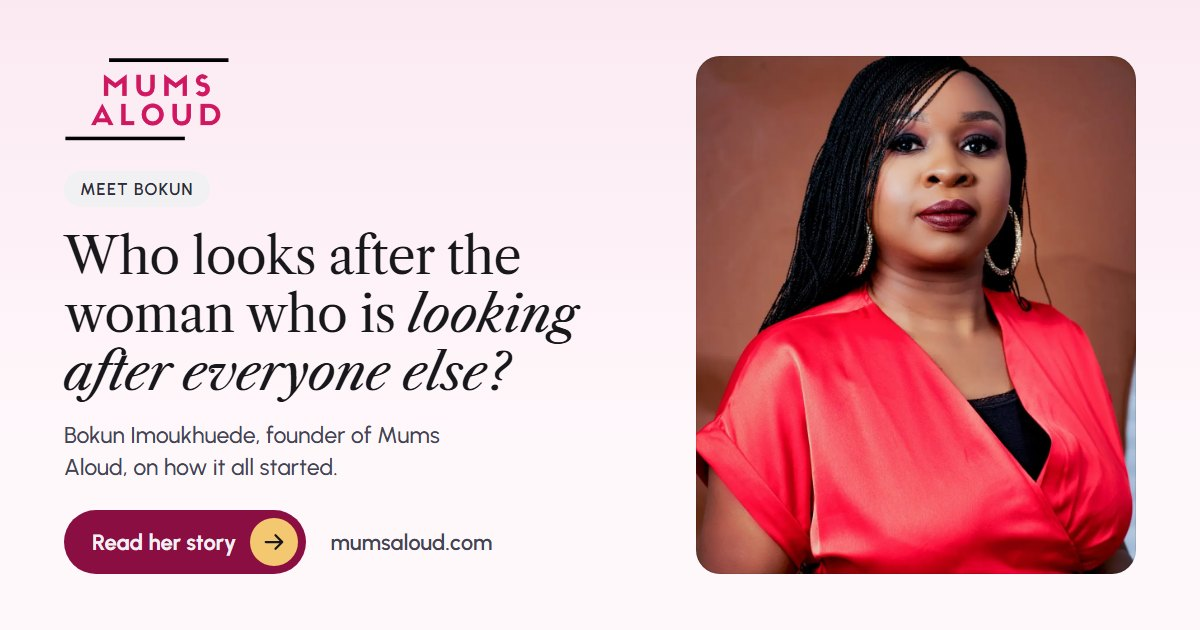
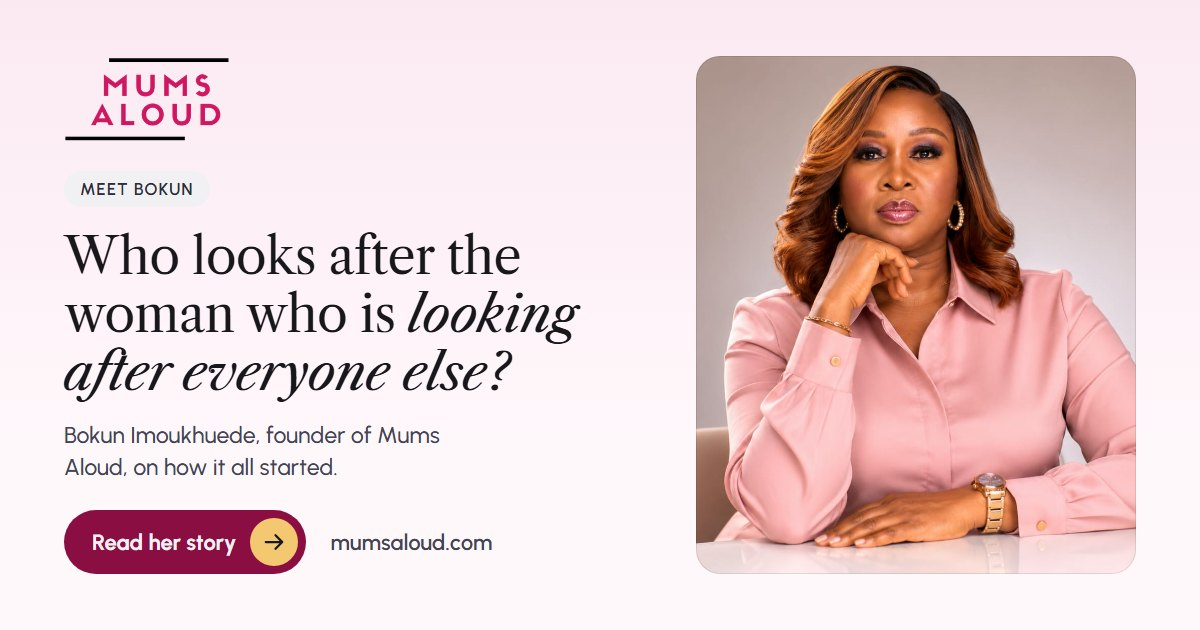
Bokun's new portrait everywhere her photo appears
The owner's new photo replaces the old team tile (red wrap top) and the old
site's portrait on Meet Bokun, Work With Bokun and the About menu. The three
share cards that show her are re-rendered.

Changed region(s): [[0.555, 0.0905, 0.9558, 0.9349]]

diff --git a/src/content/about.test.ts b/src/content/about.test.ts
@@ -1,7 +1,6 @@
 import { describe, expect, it } from "vitest";
 import { about, council, founder, team } from "./about";
 import { teamPortraits } from "@/components/content/teamPortraits";
-import { uploadUrl } from "@/lib/wordpress/urls";
 
 describe("About content", () => {
   it("lists the four team members from the live site, Bokun first with a link to her page", () => {
@@ -17,8 +16,11 @@ describe("About content", () => {
     expect(founder.letter.signoff).toEqual({ name: "Bokun Imoukhuede", role: "Founder, MumsAloud" });
   });
 
-  it("uses Bokun's own portrait from the WordPress media library, not a stock photo", () => {
-    expect(founder.hero.portrait.src).toBe(uploadUrl("2024/10/Mrs-Bokun-1025x1536.jpeg"));
+  it("uses Bokun's own portrait (owner, 9 Nov 2026) on her pages and her team tile alike", () => {
+    // Next hands an image import over as { src, width, height }; Vitest as the plain path.
+    const image: unknown = founder.hero.portrait.src;
+    expect(typeof image === "string" ? image : (image as { src: string }).src).toMatch(/bokun-imoukhuede\.jpg/);
+    expect(teamPortraits.bokun?.photo).toBe(founder.hero.portrait.src);
   });
 
   it("carries the council's five roles and five members", () => {

diff --git a/src/content/about.ts b/src/content/about.ts
@@ -7,7 +7,7 @@
  * Mum's Council page on 26 Oct 2026.
  */
 import type { AccentText } from "@/components/ui/Heading";
-import { uploadUrl } from "@/lib/wordpress/urls";
+import bokunPortrait from "@/assets/photos/team/bokun-imoukhuede.jpg";
 
 export type Profile = {
   id: "bokun" | "oyindamola" | "dk-jonah" | "yemi" | "bella-abidakun" | "temi-fagbo" | "bukunmi-ladeji" | "elizabeth-toluwani" | "abies-sonia";
@@ -104,11 +104,10 @@ export const founder = {
     tag: "Meet Bokun",
     heading: { lead: "Who looks after the woman who is", accent: "looking after everyone else?" } satisfies AccentText,
     intro: "Bokun Imoukhuede, founder of MumsAloud, on how it all started.",
+    // Owner, 9 Nov 2026: Bokun's new portrait, used everywhere her photo appears (team tile, both of her pages, the About menu).
     portrait: {
-      src: uploadUrl("2024/10/Mrs-Bokun-1025x1536.jpeg"),
-      alt: "Bokun Imoukhuede, founder of MumsAloud",
-      width: 1025,
-      height: 1536,
+      src: bokunPortrait,
+      alt: "Bokun Imoukhuede, founder of MumsAloud, in a pink blouse, resting her chin on her hand",
     },
     primary: { label: "Work with Bokun", href: "/work-with-us/" },
     secondary: { label: "Join Mama's Escape" },

diff --git a/src/app/meet-bokun/page.tsx b/src/app/meet-bokun/page.tsx
@@ -19,7 +19,7 @@ export const metadata: Metadata = {
 };
 
 /**
- * Meet Bokun: her own portrait from the live site beside the question at the heart of her story,
+ * Meet Bokun: her own portrait beside the question at the heart of her story,
  * then the founder letter in her words, her vision and voice, and her biography.
  */
 export default function MeetBokunPage() {
@@ -113,7 +113,7 @@ export default function MeetBokunPage() {
           name: bokun.name,
           jobTitle: bokun.role,
           path: "/meet-bokun/",
-          image: founder.hero.portrait.src,
+          image: founder.hero.portrait.src.src,
           description: founder.description,
         })}
       />

diff --git a/src/components/content/teamPortraits.ts b/src/components/content/teamPortraits.ts
@@ -1,6 +1,6 @@
 import type { StaticImageData } from "next/image";
 import type { Profile } from "@/content/about";
-import bokun from "@/assets/photos/team/bokun-imoukhuede.webp";
+import bokun from "@/assets/photos/team/bokun-imoukhuede.jpg";
 import oyindamola from "@/assets/photos/team/oyindamola.jpg";
 import dkJonah from "@/assets/photos/team/dk-jonah.jpg";
 import yemi from "@/assets/photos/team/yemi-komolafe.jpg";

diff --git a/src/content/navigation.ts b/src/content/navigation.ts
@@ -152,7 +152,7 @@ export const menuPromo: NavFeature = {
   action: { label: "Join Mama's Escape", href: siteConfig.joinUrl },
 };
 
-/** Bokun's own portrait for the About menu (the live site's image, as on her page). */
+/** Bokun's own portrait for the About menu (the same photo as on her page). */
 export const founderPortrait = founder.hero.portrait;
 
 export const footerGroups: NavGroup[] = [

diff --git a/docs/photo-credits.md b/docs/photo-credits.md
@@ -25,7 +25,7 @@ The client brief asks for real, non-stock photos in the hero. Replace these with
 
 ## Team portraits (the client's own photos)
 
-Supplied by the owner on 26 October 2026 and stored in `src/assets/photos/team/`. They arrived without names. The owner confirmed every match on 26 October 2026: red wrap top on brown = Bokun Imoukhuede; grey background with braids = Gloria Odewumi (listed as Oyindamola until 30 October 2026); black and white with pearls = Dk Jonah; teal jacket on white = Yemi Komolafe. ## Council portraits (the client's own photos)
+Supplied by the owner on 26 October 2026 and stored in `src/assets/photos/team/`. They arrived without names. The owner confirmed every match on 26 October 2026: red wrap top on brown = Bokun Imoukhuede (replaced on 9 November 2026 by her new portrait, `bokun-imoukhuede.jpg`: pink blouse at a white desk, supplied by the owner; it is also the photo on Meet Bokun, Work With Bokun and the About menu, which used the old site's `2024/10/Mrs-Bokun-1025x1536.jpeg` until then); grey background with braids = Gloria Odewumi (listed as Oyindamola until 30 October 2026); black and white with pearls = Dk Jonah; teal jacket on white = Yemi Komolafe. ## Council portraits (the client's own photos)
 
 Supplied by the owner on 26 October 2026 and stored in `src/assets/photos/council/`, resized to 1600px on the long side. They arrived without names; each was matched to the named thumbnail on the previous site's Mum's Council page (read 26 October 2026): brown scarf selfie with the mirror = Bella Abidakun; white blouse, arms crossed, blue background = Temi Fagbo; black dress with gold earrings = Bukunmi Ladeji; green faux fur coat = Elizabeth Toluwani; curly hair and pink lipstick on light blue = Abies Sonia. The owner confirmed every match on 26 October 2026.
 
